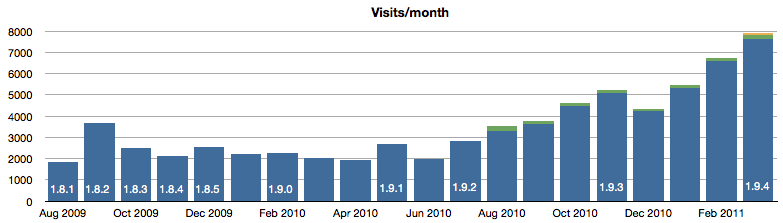
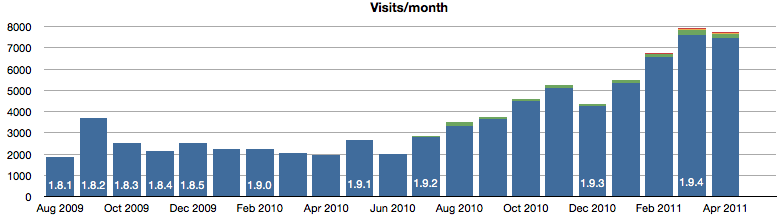
April Stats

Changed region(s): [[0.0, 0.1096, 1.0, 0.9863], [0.4604, 0.0, 0.5831, 0.0822]]

diff --git a/public_html/stats/index.html b/public_html/stats/index.html
@@ -24,7 +24,7 @@
 
       The releases are marked.
 
-      Traffic has doubled in the last seven months.
+      Traffic has doubled in the last eight months.
       <br />
       <br />
       <br />
@@ -67,7 +67,8 @@
       new features, which tend to be buggy at first, until the bugs are found
       and the unit tests catch up.
 
-      The 2.x development effort will generate another sharp rise in unit tests.
+      The 2.x development effort has so far eliminated many hook tests, but will
+      generate a sharp increase soon.
     </p>
     <p>
       <br />
@@ -94,6 +95,9 @@
       Feature requests are low, which is expected.  The more features we put
       into task, the harder it becomes to dream up new ones.  At some point,
       that will probably go to around zero and stay there.
+
+      The feature completion spike represents general cleanup of the issues
+      list.
     </p>
     <p>
       <br />
@@ -114,7 +118,7 @@
       an add-on (which uses tasktools.org/latest), this number is expected to
       rise.
 
-      The March spike is likely due to it being mentioned in the online survey.
+      We have no explanation for the spike.
       <br />
       <br />
       <br />
